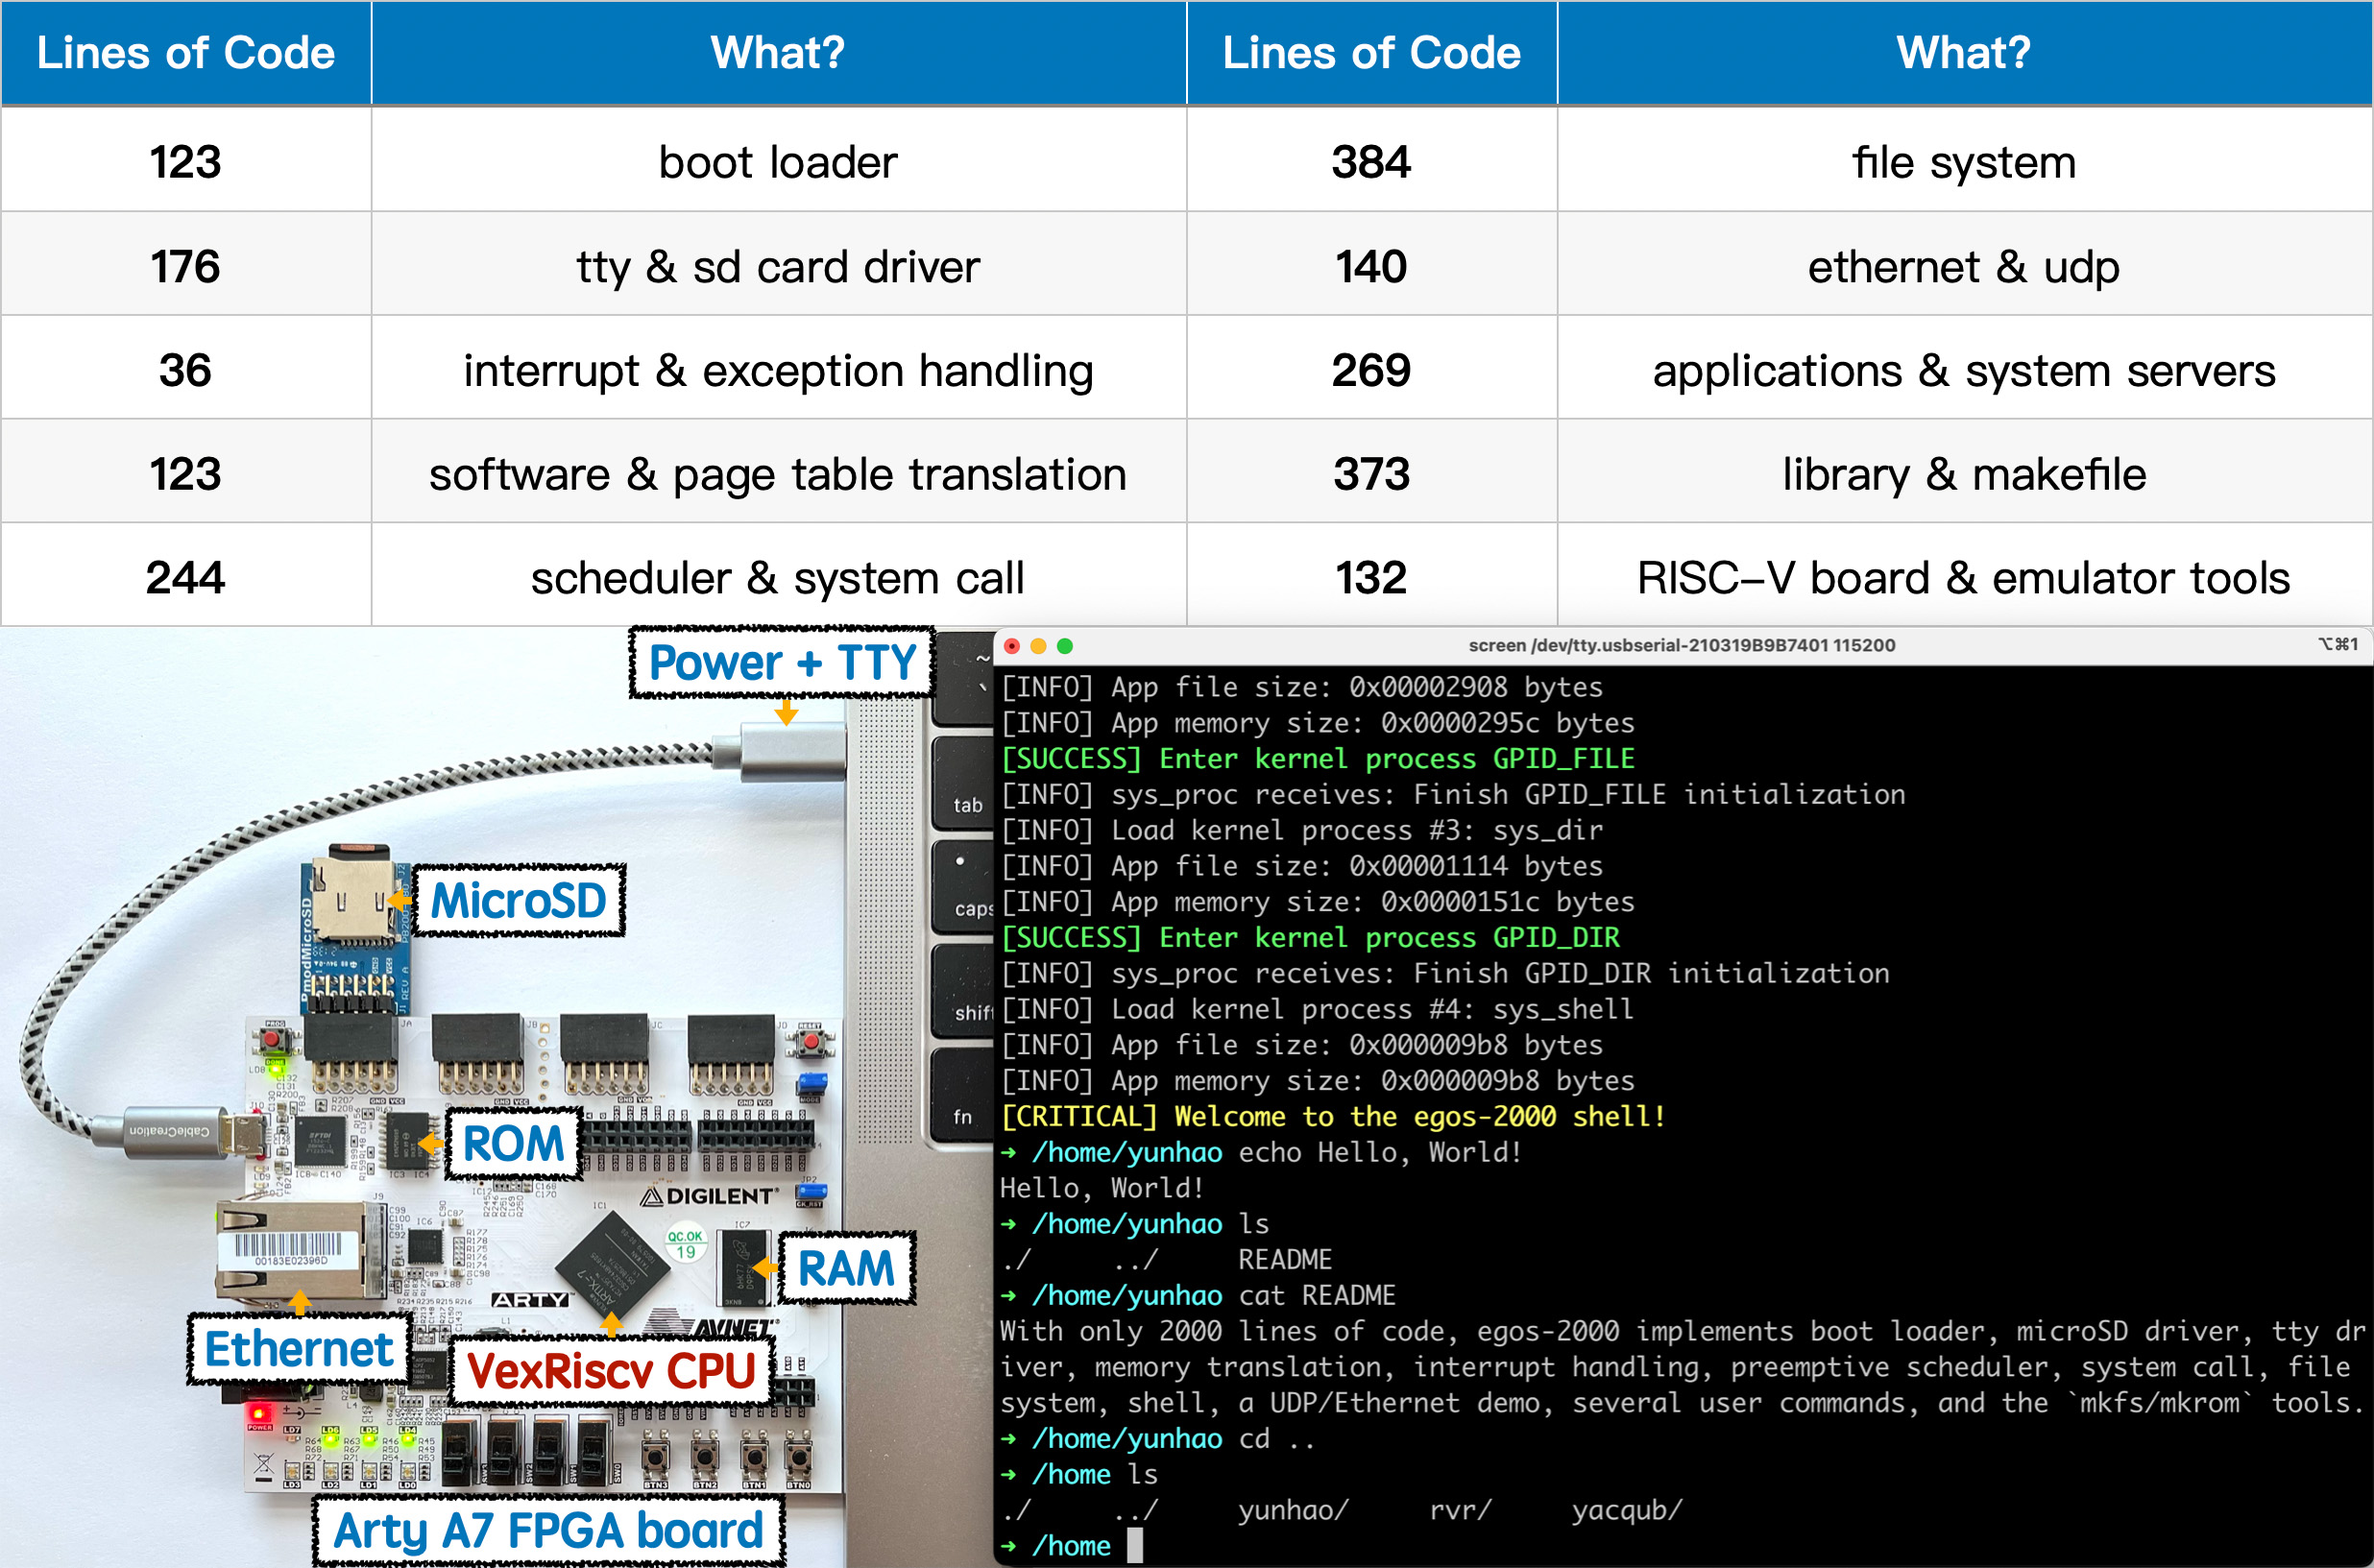
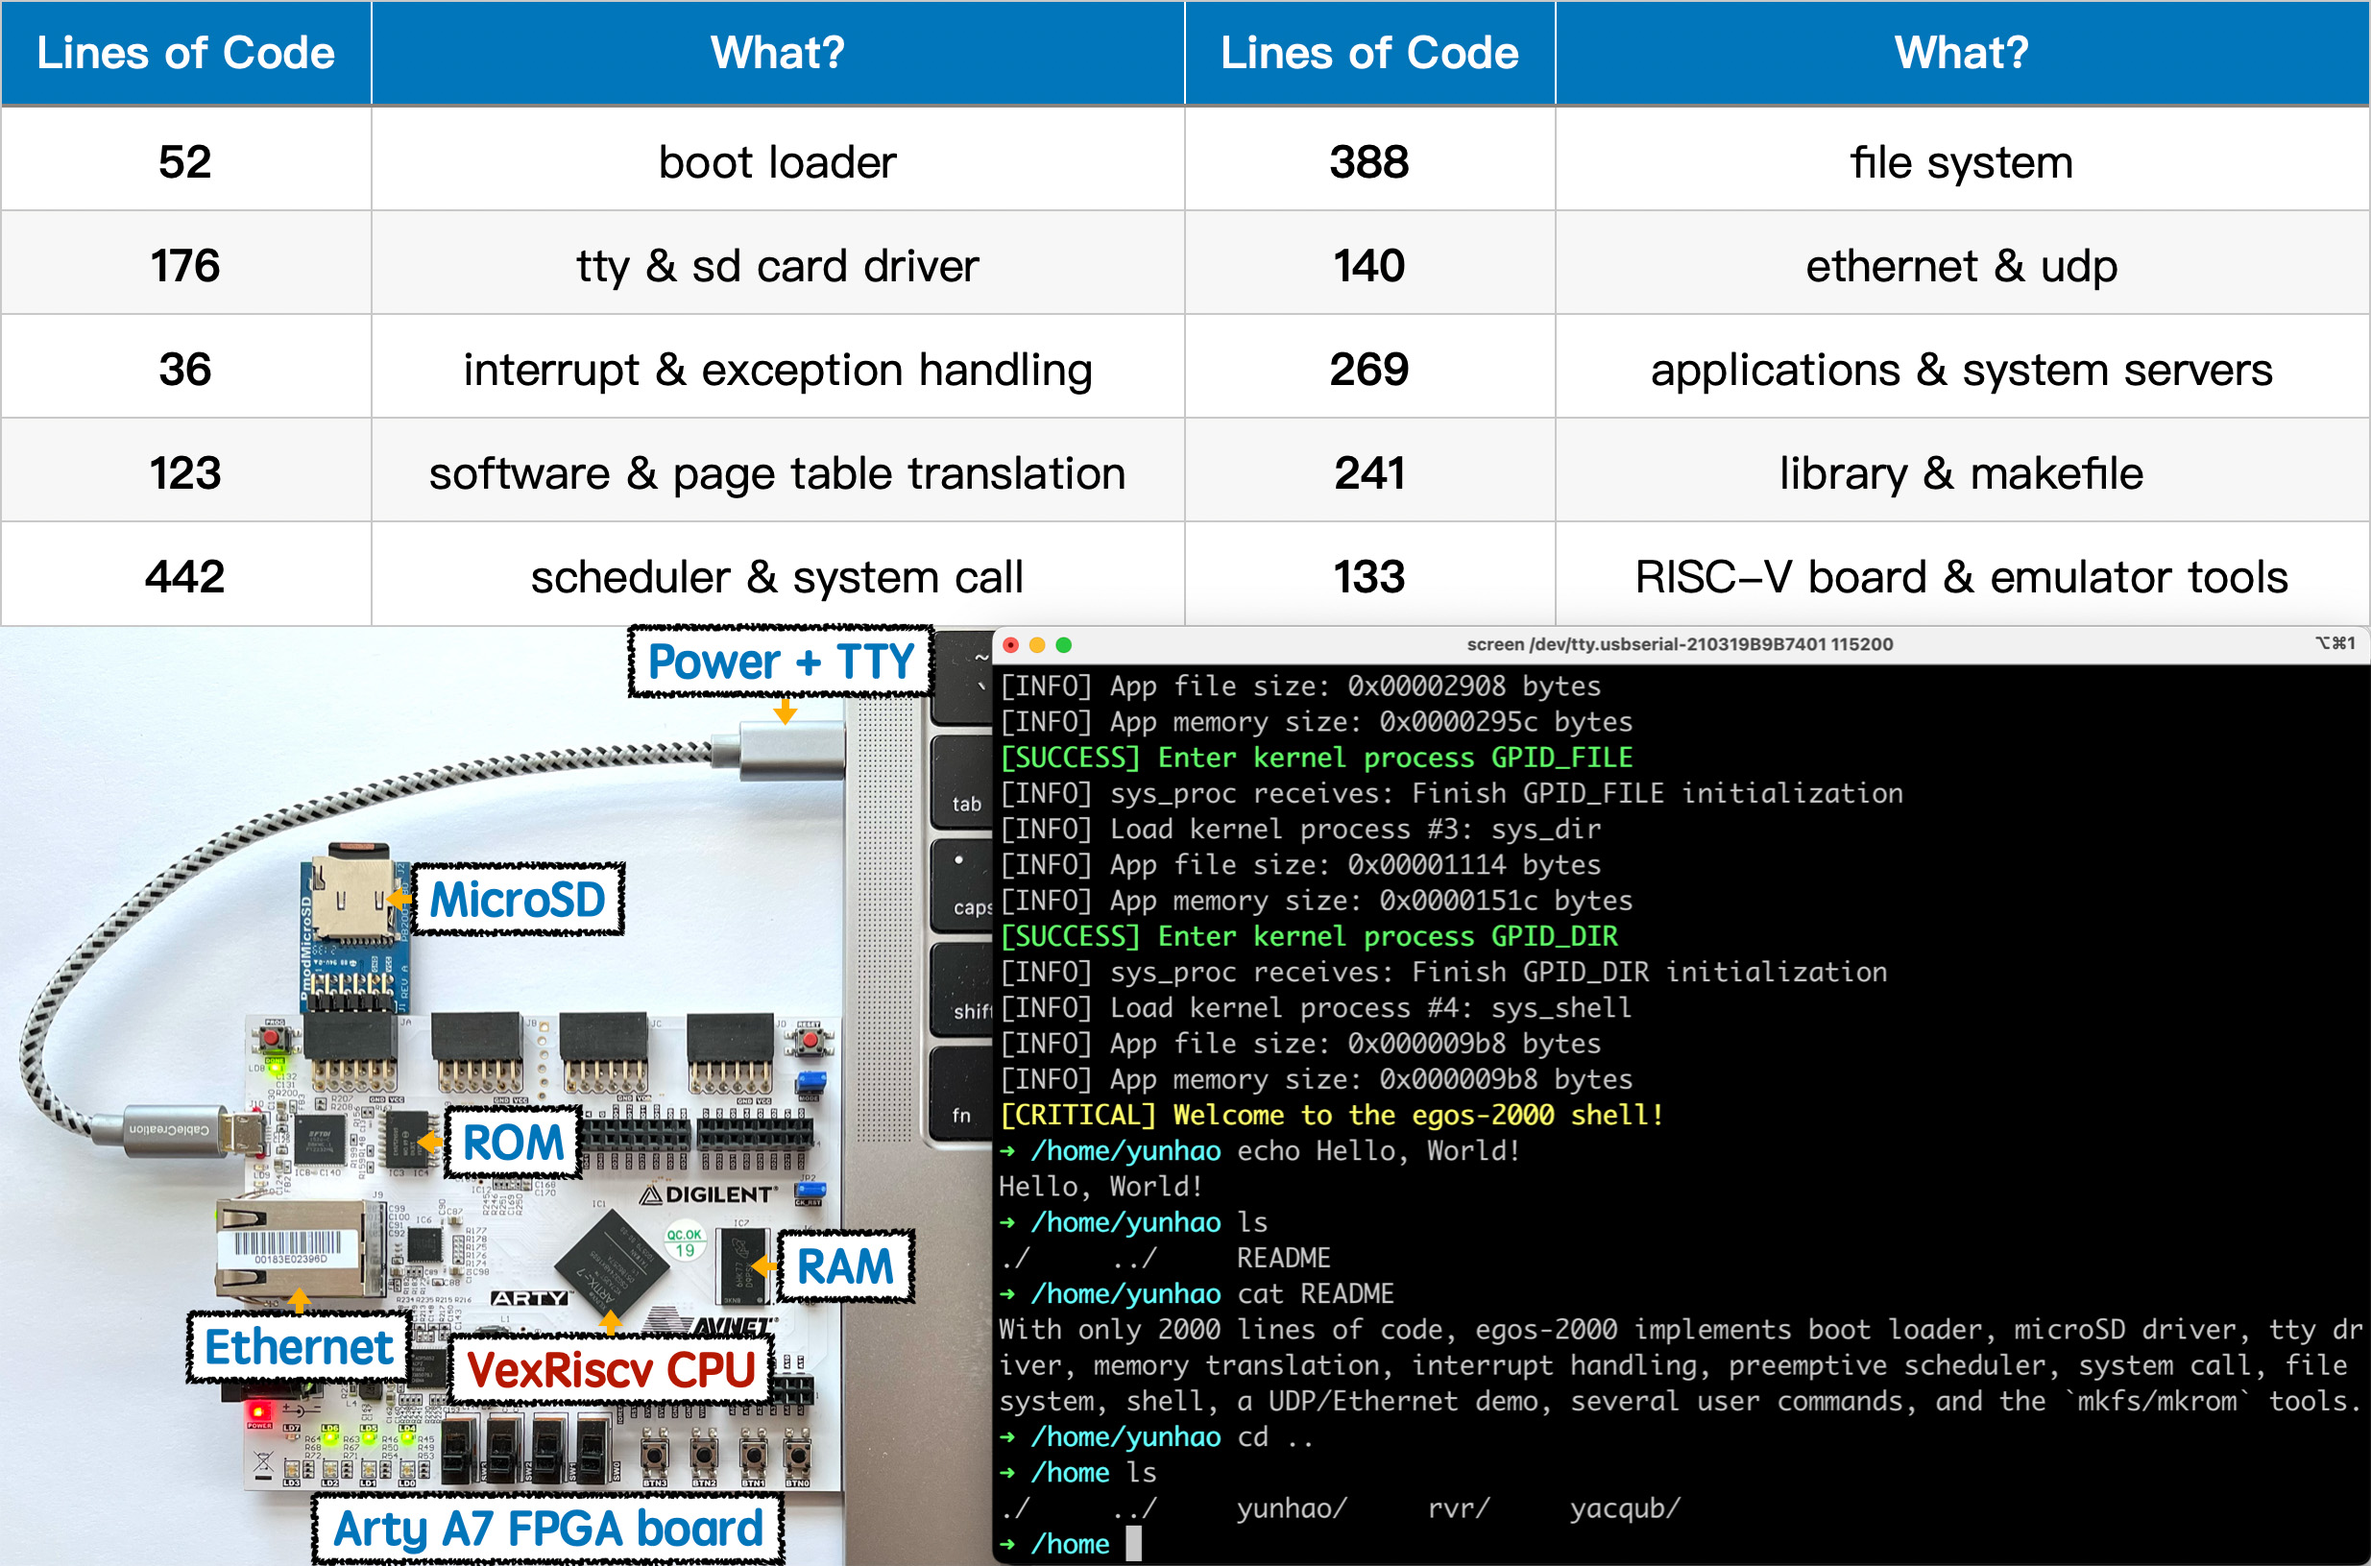
Move trap entry code to grass

diff --git a/library/file/file1.c b/library/file/file1.c
@@ -434,8 +434,7 @@ int treedisk_create(inode_store_t* below, uint below_ino, uint ninodes){
         printf("treedisk: Created a new filesystem with %d inodes\n", ninodes);
     }
     else {
-        printf("treedisk: a filesystem already exists with %lu inodes",
-               superblock.superblock.n_inodeblocks * INODES_PER_BLOCK);
+        printf("treedisk: a filesystem already exists with %lu inodes", superblock.superblock.n_inodeblocks * INODES_PER_BLOCK);
     }
 
     return 0;

diff --git a/README.md b/README.md
@@ -15,13 +15,13 @@ github.com/AlDanial/cloc v 1.94  T=0.05 s (949.3 files/s, 62349.4 lines/s)
 -------------------------------------------------------------------------------
 Language                     files          blank        comment           code
 -------------------------------------------------------------------------------
-C                               31            421            500           1601
+C                               31            421            500           1600
 C/C++ Header                     9             67             99            262
-Assembly                         2              8             41             87
-make                             1             15              4             50
+Assembly                         3             14             48             89
+make                             1             15              4             49
 -------------------------------------------------------------------------------
-SUM:                            43            511            644           2000
-------------------------------------------------------------------------------- (exactly!)
+SUM:                            44            517            651           2000 (exactly!)
+-------------------------------------------------------------------------------
 ```
 
 ## Earth and Grass Operating System
